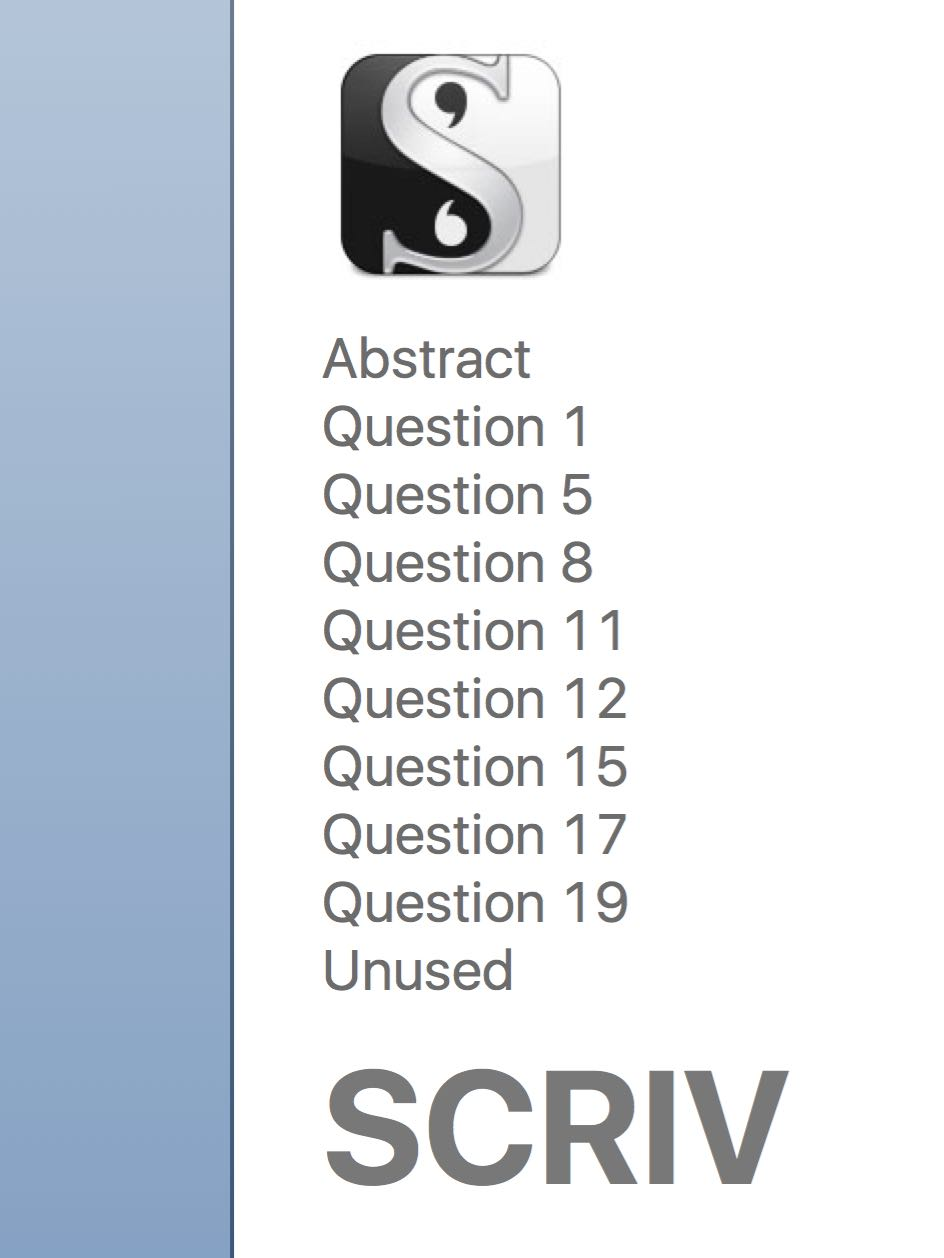
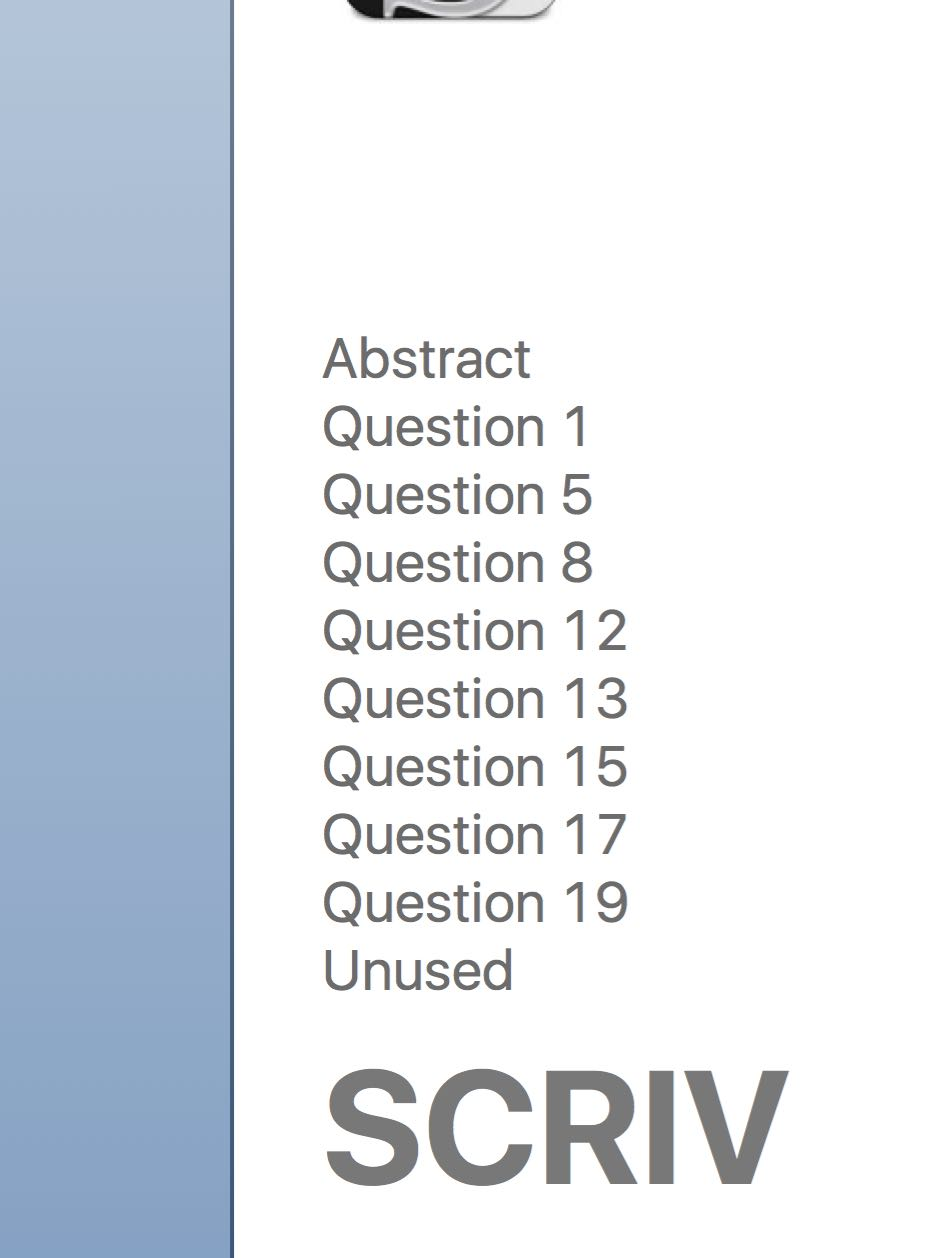
tweak

Changed region(s): [[0.3379, 0.0, 0.6144, 0.248], [0.6451, 0.465, 0.6758, 0.527], [0.6451, 0.558, 0.6758, 0.589]]

diff --git a/CASCA.scriv/QuickLook/Preview.html b/CASCA.scriv/QuickLook/Preview.html
@@ -46,10 +46,10 @@
 <p class="binderItem"><strong>Question 8</strong><br/>Comment on career supporting funding versus project-based funding. What are the pros and cons of each structure? Should support structures be higher at the front end of careers and less so as they are established? </p>
 </li>
 <li>
-<p class="binderItem"><strong>Question 11</strong><br/>Do current federal programs encourage and support domestic collaboration?</p>
+<p class="binderItem"><strong>Question 12</strong><br/>Do current federal programs encourage and support domestic collaboration?</p>
 </li>
 <li>
-<p class="binderItem"><strong>Question 12</strong><br/>To what extent do you collaborate internationally and how important is this to your work? Is there sufficient flexibility in granting council or other funding programs for participation in international collaborations? Are there particular research areas where more emphasis on international collaboration is needed?</p>
+<p class="binderItem"><strong>Question 13</strong><br/>To what extent do you collaborate internationally and how important is this to your work? Is there sufficient flexibility in granting council or other funding programs for participation in international collaborations? Are there particular research areas where more emphasis on international collaboration is needed?</p>
 </li>
 <li>
 <p class="binderItem"><strong>Question 15</strong><br/>Is current support for major science initiatives or “Big Science” including large international collaborations and facilities effectively meeting the needs of researchers? If not, how can this be improved?</p>
